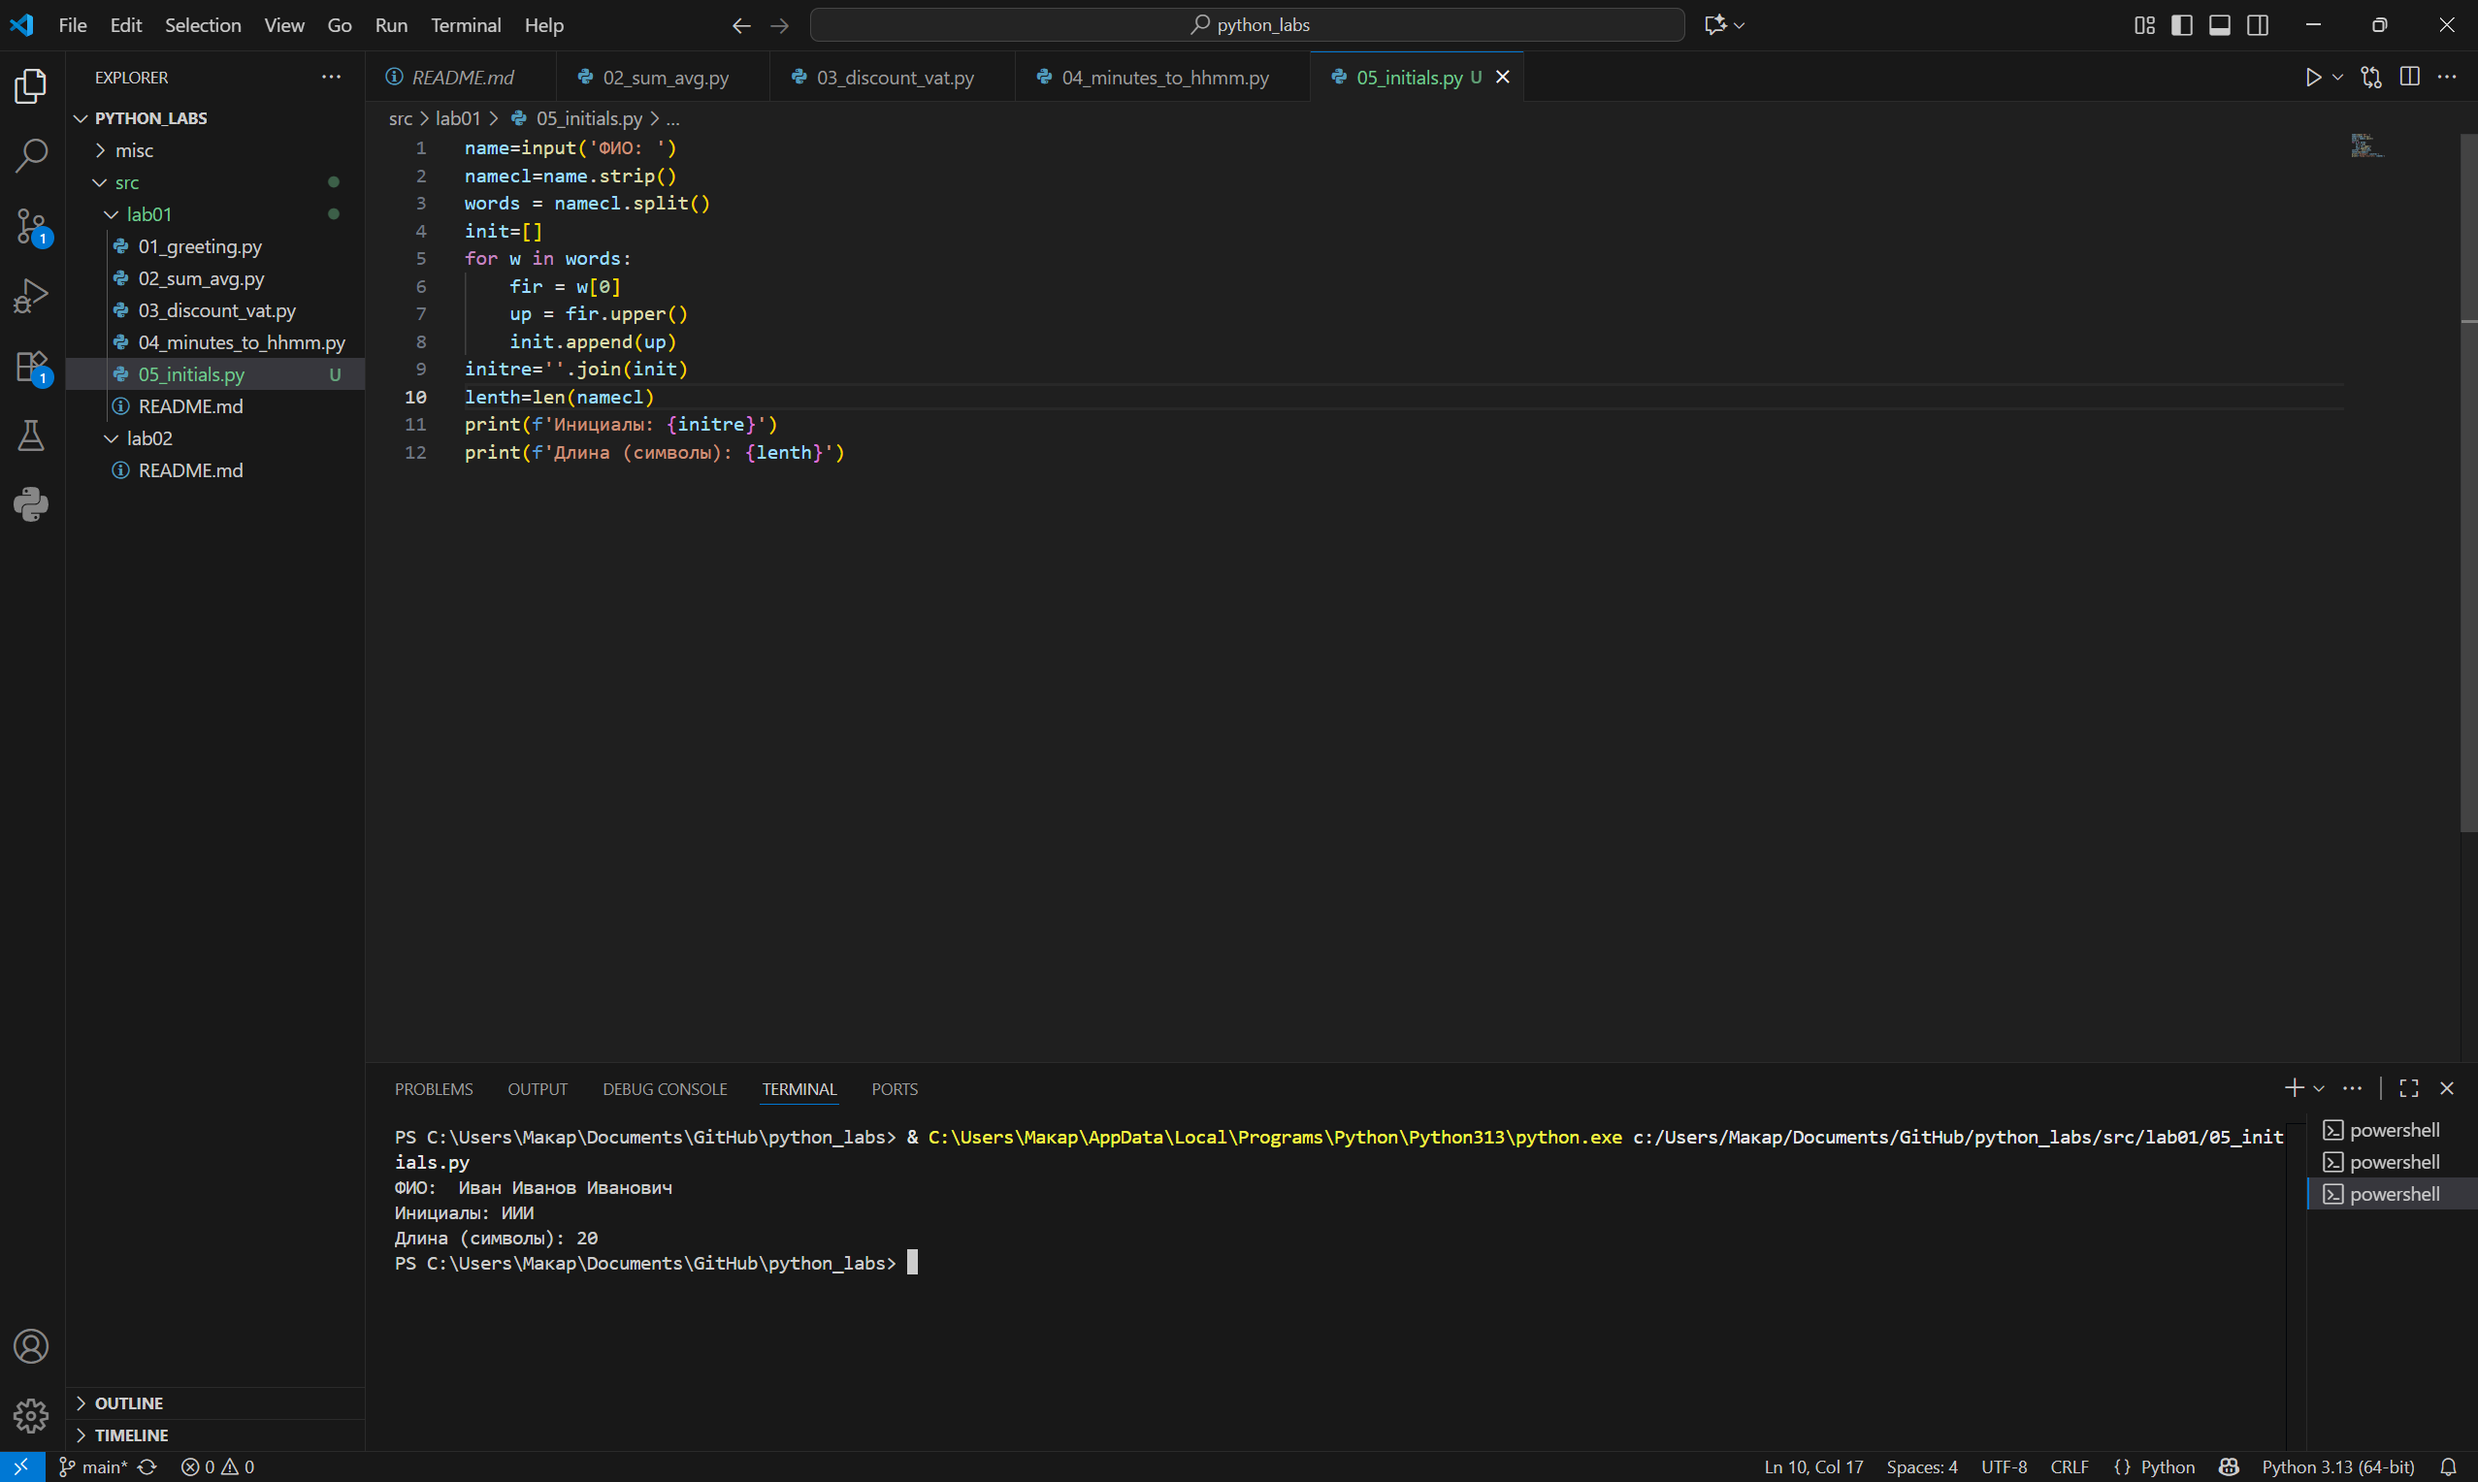
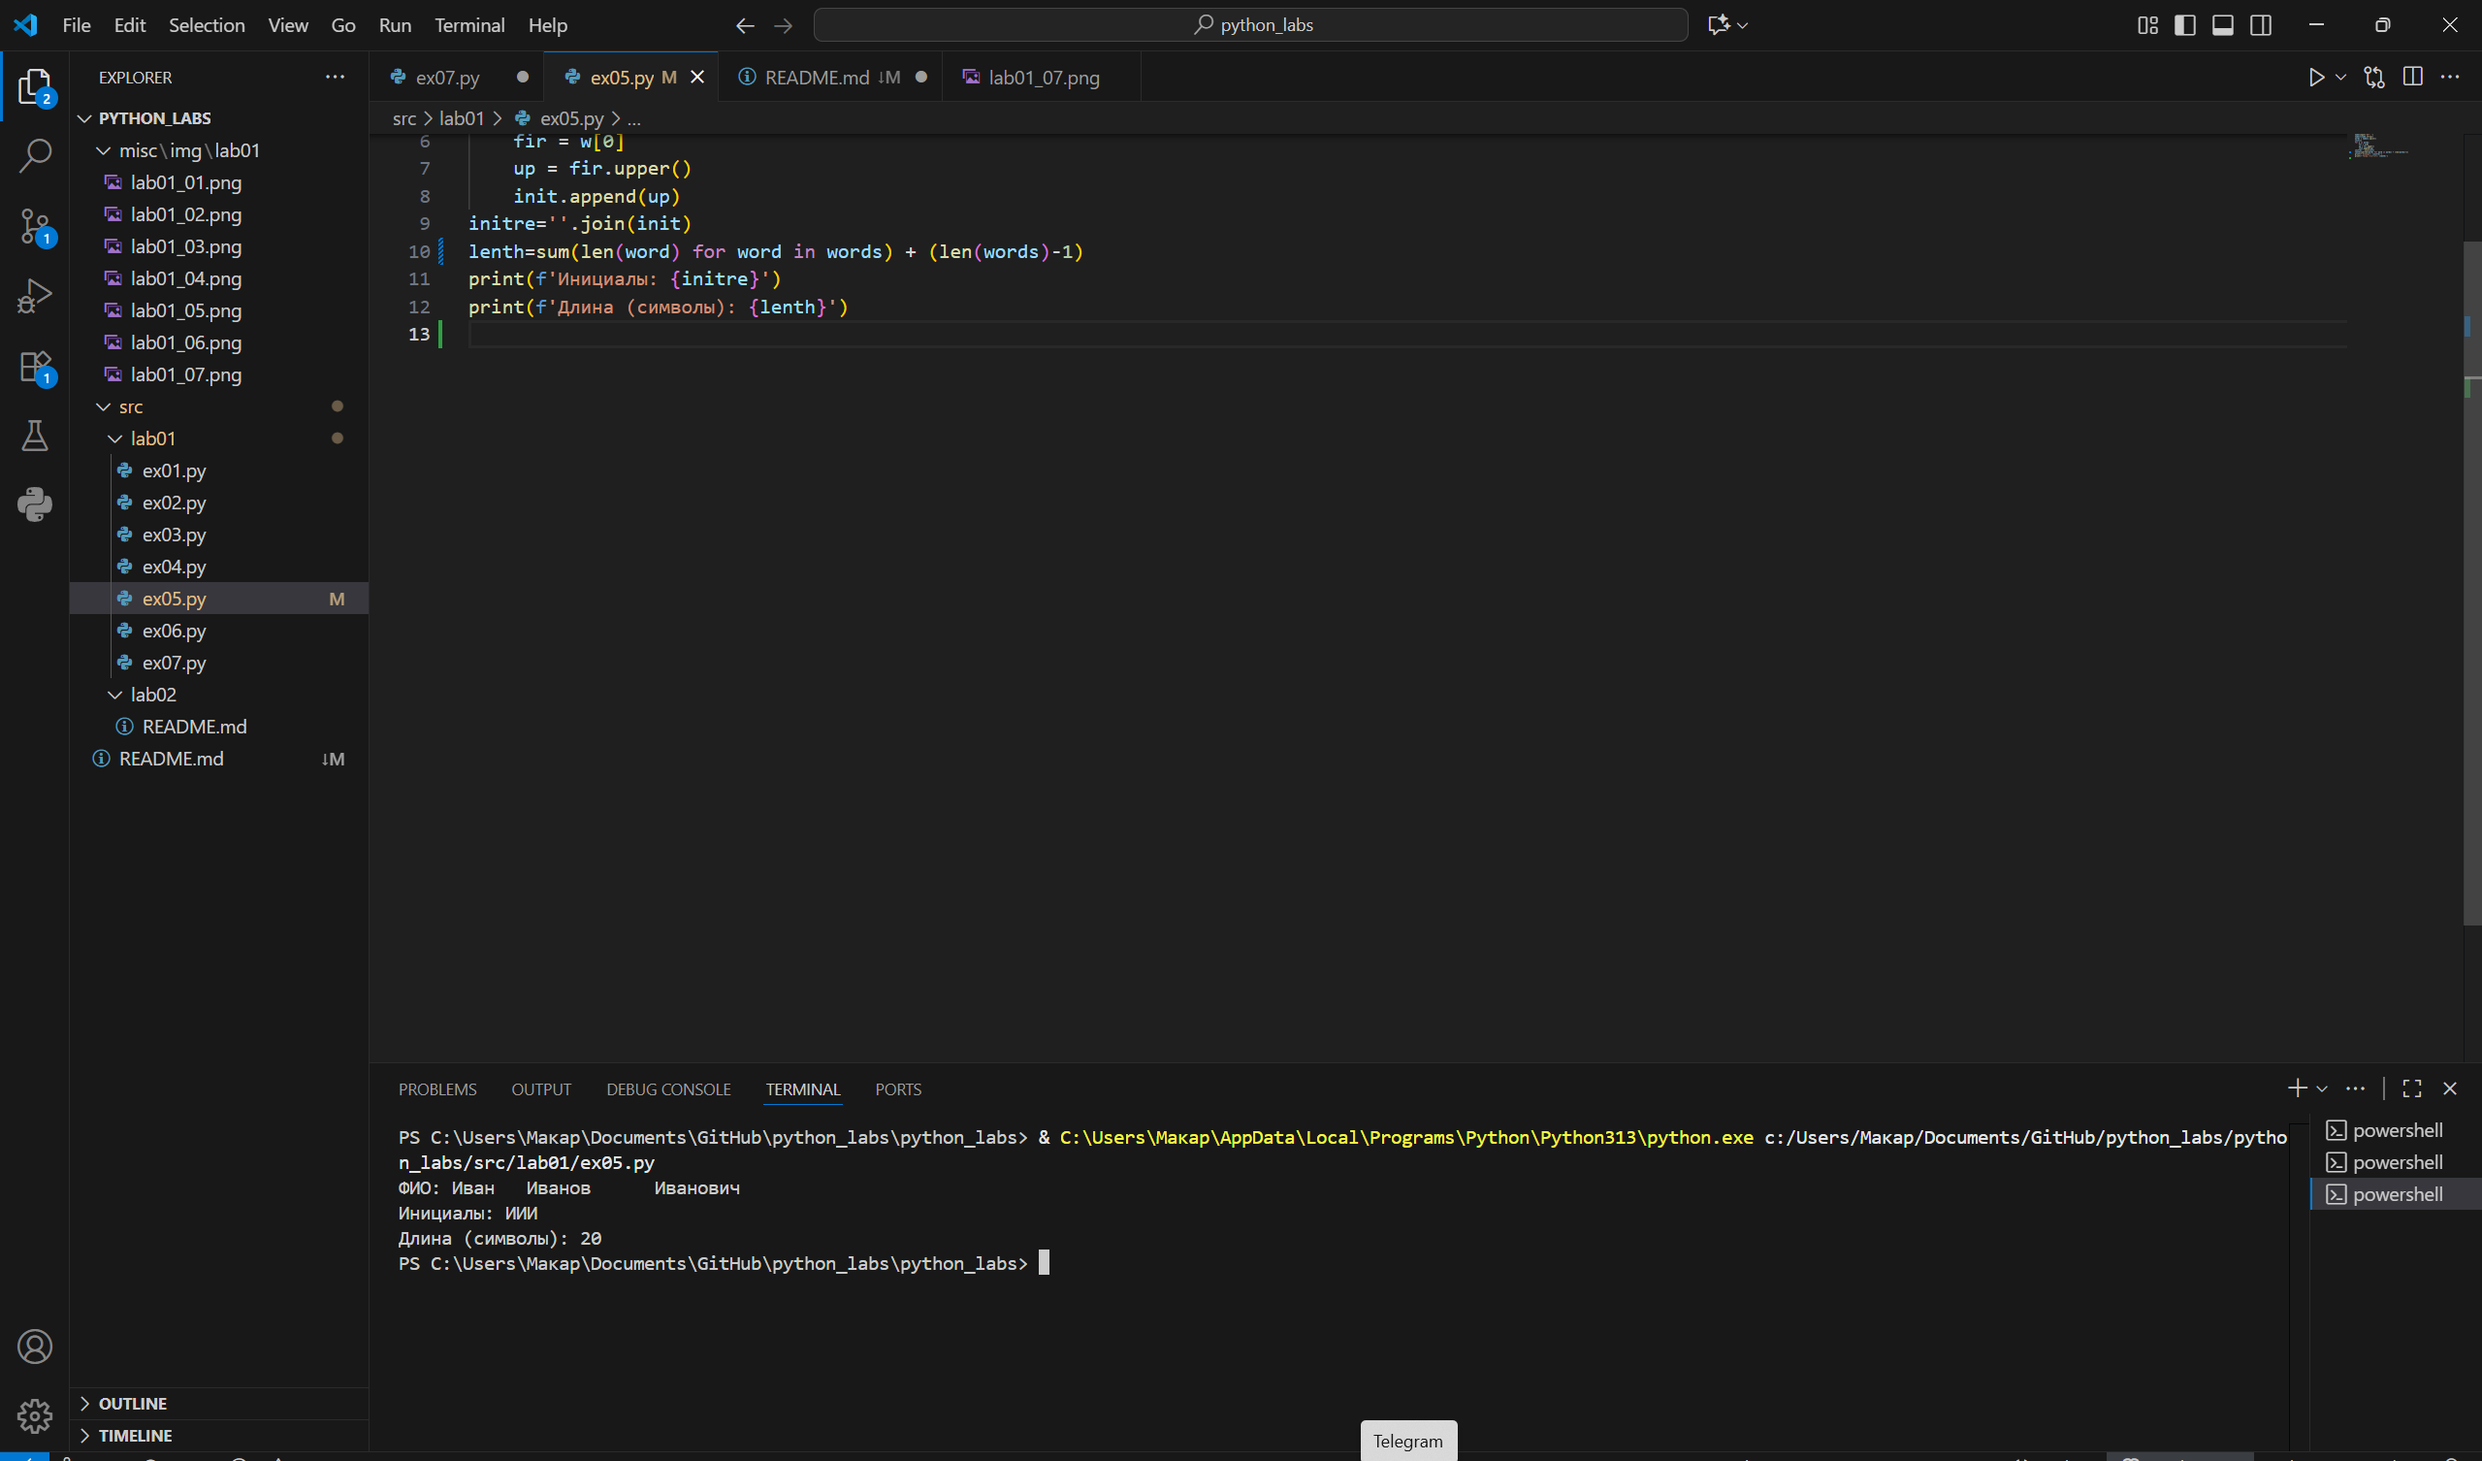
asd

diff --git a/src/lab01/ex05.py b/src/lab01/ex05.py
@@ -7,6 +7,6 @@ for w in words:
     up = fir.upper()
     init.append(up)
 initre=''.join(init)
-lenth=len(namecl)
+lenth=sum(len(word) for word in words) + (len(words)-1)
 print(f'Инициалы: {initre}')
 print(f'Длина (символы): {lenth}')
